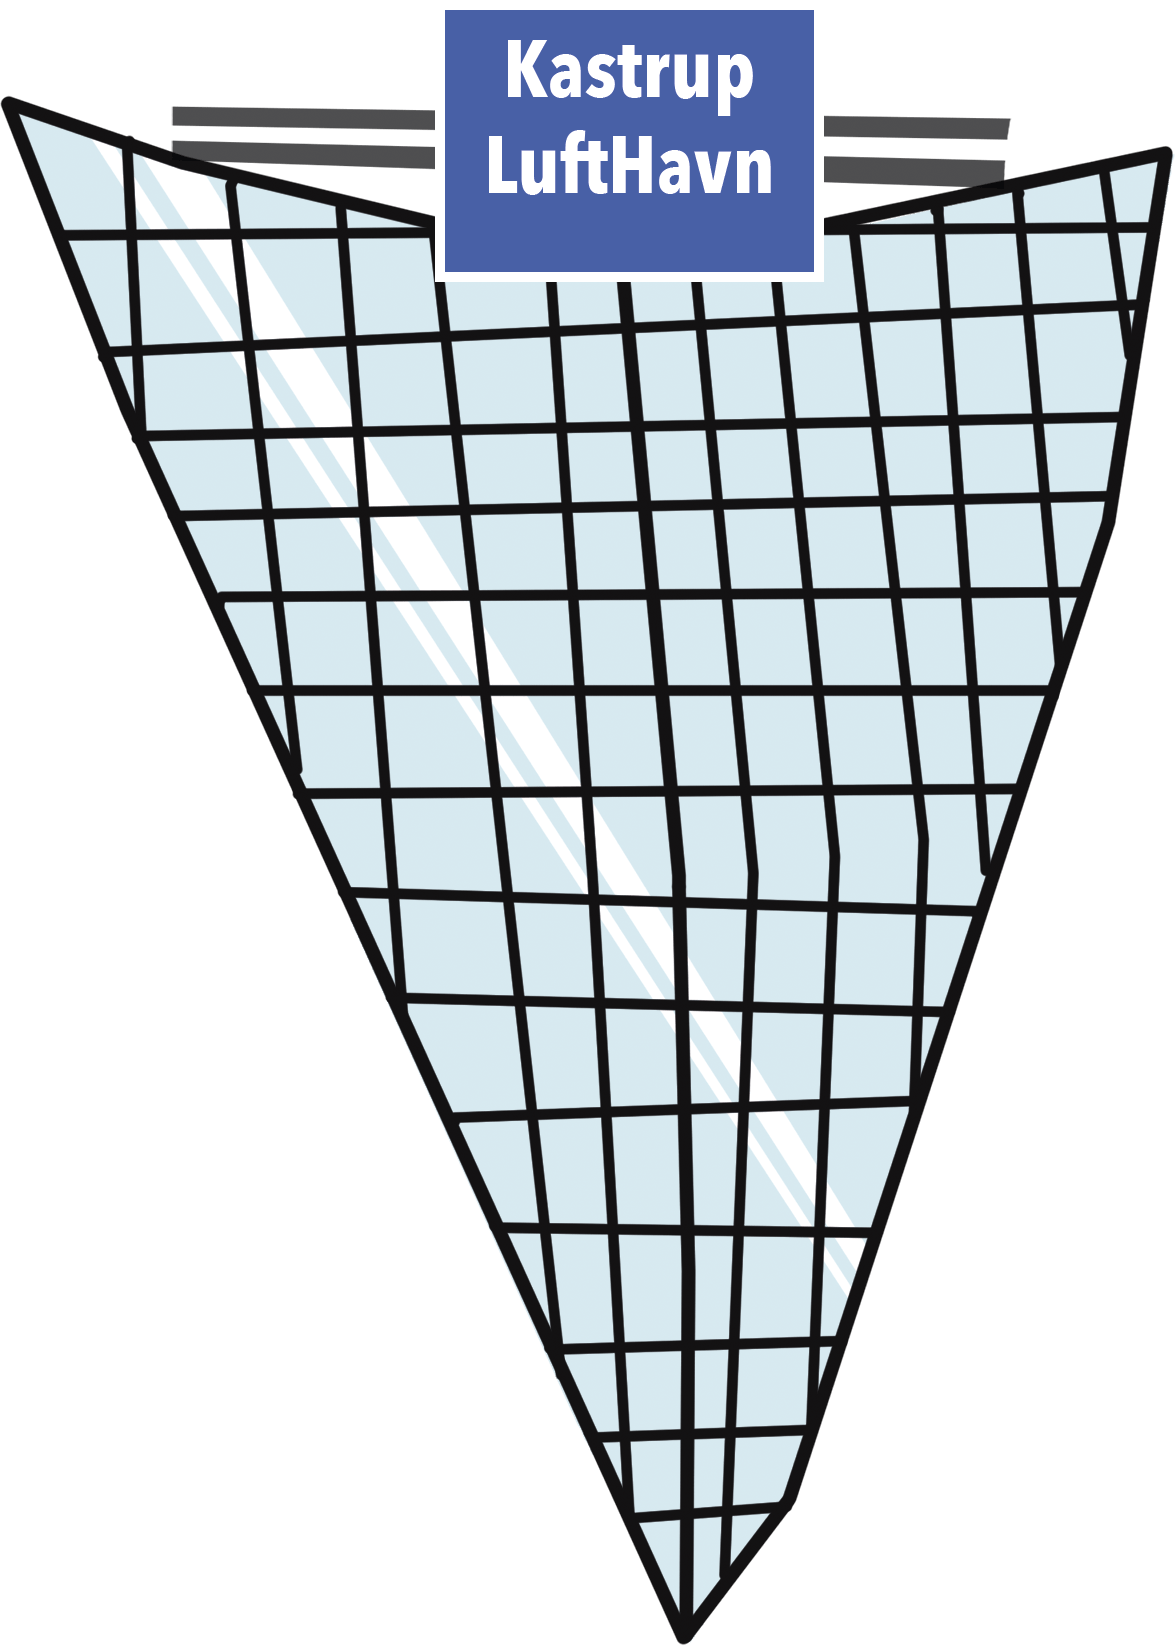
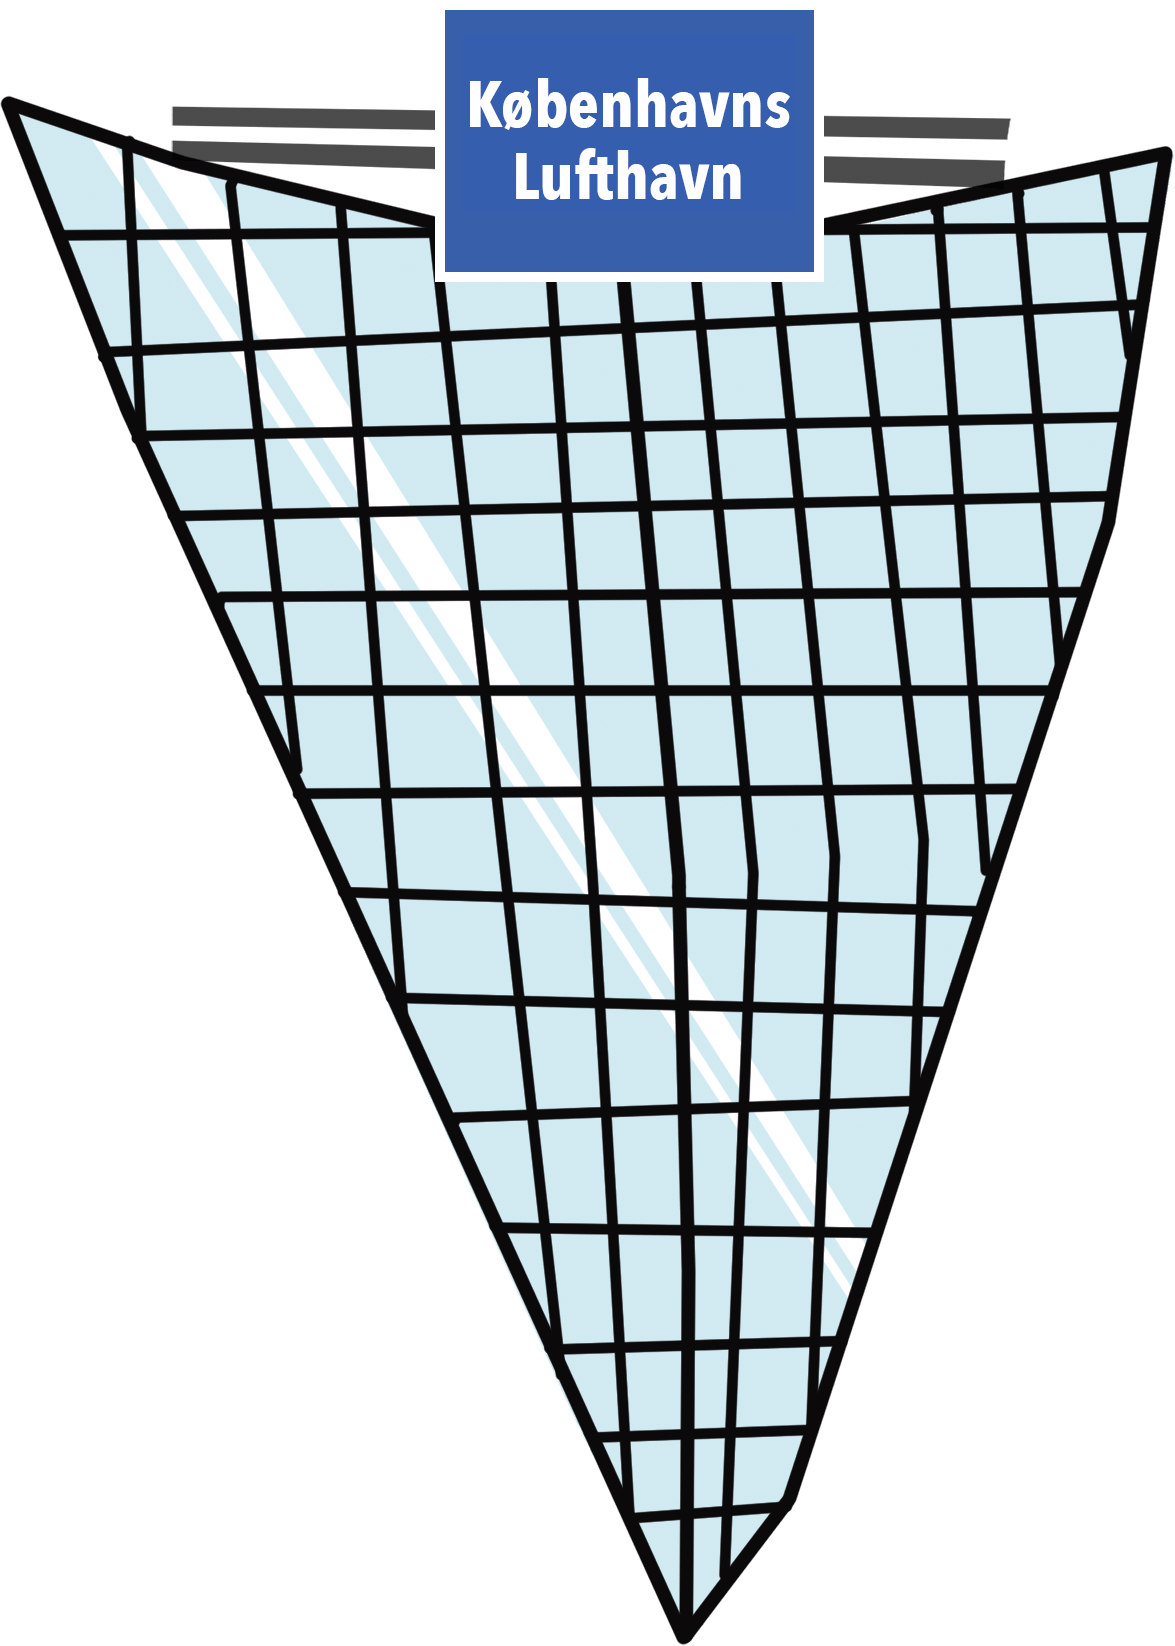
new

Changed region(s): [[0.3983, 0.0, 0.674, 0.1239]]

diff --git a/airpark/index.html b/airpark/index.html
@@ -119,13 +119,15 @@
 
         <div class="results-text">
           <h1>Resultat</h1>
-          <p>Nedenfor kan du se resultatet og dit foretrukne transportmiddel.</p>
+          <p>Her kan du se, hvordan de forskellige transportmuligheder klarer sig mod hinanden på netop din rejse.</p>
         </div>
 
         <div id="results-box">
-          <div id="results-box-car">
-            <div class="icon" id="icon-car"></div>
-            <div class="results-box-stats" id="stats-car">
+
+
+          <div id="results-box-bike">
+            <div class="icon" id="icon-bike"></div>
+            <div class="results-box-stats" id="stats-bike">
               <span class="progress comfort">
                 <span class="meter">&nbsp;</span>
               </span>
@@ -139,7 +141,7 @@
 
             <div class="progress__text--padding">
               <div class="progress__comfort--text">
-                <p>Comfort score:</p><span>90</span>
+                <p>Comfort score:</p><span>30</span>
               </div>
 
               <div class="progress__price--text">
@@ -187,7 +189,6 @@
                 <p>Forsl&aring;et rute:</p> <a href="#">Klik her</a>
               </div>
             </div>
-
           </div>
 
           <div id="results-box-taxi">
@@ -221,10 +222,11 @@
                 <p>Forsl&aring;et rute:</p> <a href="#">Klik her</a>
               </div>
             </div>
-
           </div>
 
-          <div id="results-box-bike">
+
+
+          <div id="results-box-car">
             <div class="result__description">
               <div class="result__description--time">
                 <span></span>Tid
@@ -236,8 +238,8 @@
                 <span></span>Comfort
               </div>
             </div>
-            <div class="icon" id="icon-bike"></div>
-            <div class="results-box-stats" id="stats-bike">
+            <div class="icon" id="icon-car"></div>
+            <div class="results-box-stats" id="stats-car">
               <span class="progress comfort">
                 <span class="meter">&nbsp;</span>
               </span>
@@ -251,7 +253,7 @@
 
             <div class="progress__text--padding">
               <div class="progress__comfort--text">
-                <p>Comfort score:</p><span>30</span>
+                <p>Comfort score:</p><span>90</span>
               </div>
 
               <div class="progress__price--text">
@@ -266,8 +268,8 @@
                 <p>Forsl&aring;et rute:</p> <a href="#">Klik her</a>
               </div>
             </div>
-
           </div>
+
         </div>
       </div>
     </article>
@@ -288,14 +290,18 @@
           <img src="assets/images/game/sky.png">
         </div>
 
-          <h1>Konklusion</h1>
+          <h1>Din foretrukne rejse</h1>
           <img id="seperator" src="assets/images/web/verticalShape.png" />
 
           <p>
-            Lorem ipsum dolor sit amet, consectetur adipisicing elit. Alias placeat,
-            laboriosam veniam repudiandae architecto est, accusamus recusandae itaque
-            natus deserunt ducimus reprehenderit. Pariatur deleniti, mollitia distinctio
-            esse itaque animi officiis.
+            Samlet set giver bilen dig den største traveljoyment – det allervigtigste, når man rejser!
+            <br /><br />
+            <b>1. Bilen er billigst:</b> Bilen er billigst for din rejse. Kør selv og spar!
+            <br />
+            <b>2. Bilen er hurtigst:</b> Vi håber du har bil. En tur i bilen er nemlig den hurtigste vej til Københavns Lufthavn for dig.
+            <br />
+            <b>3. Bilen er mest komfortabel:</b> Det handler om at nyde hele rejsen. Lige fra turen i lufthavnen til man lander.<br /> Derfor anbefaler vi bilen.
+
           </p>
 
           <div class="clear"></div>
@@ -307,7 +313,11 @@
         <div class="grass--bottom">
           <img src="assets/images/web/grass.svg">
         </div>
-        
+
+        <div class="copyright">
+          © Københavns Lufthavne A/S - Lufthavnsboulevarden 6, 2770 Kastrup - CVR 14 70 72 04
+        </div>
+
       </div>
     </article>
   </section>

diff --git a/airpark/assets/css/styles.css b/airpark/assets/css/styles.css
@@ -2183,12 +2183,15 @@ input {
     height: 70px;
     background: #FCCB00;
     transform: rotate(45deg);
-    z-index: 0; }
+    z-index: 1; }
   #bottom .grass--bottom {
     position: absolute;
     width: 100%;
     bottom: -7px;
     left: 0; }
+  #bottom #conclusion .conclusion__content .sky--top {
+    position: absolute;
+    width: 100%; }
   #bottom #conclusion .conclusion__content .sky-full--right {
     top: 200px;
     opacity: 1;
@@ -2204,6 +2207,7 @@ input {
     padding-top: 100px;
     font-family: 'AvenirBold';
     position: relative;
+    text-transform: uppercase;
     z-index: 2;
     letter-spacing: 2px; }
     @media screen and (min-width: 900px) {
@@ -2217,7 +2221,6 @@ input {
     display: block;
     padding: 20px;
     font-size: 1.2em;
-    text-align: center;
     position: relative;
     z-index: 2;
     color: #fff; }
@@ -2240,8 +2243,18 @@ input {
       cursor: pointer; }
   #bottom #conclusion .conclusion__content #seperator {
     display: block;
+    position: relative;
     margin: 0 auto;
-    padding: 20px 0; }
+    padding: 20px 0;
+    z-index: 2; }
+  #bottom #conclusion .conclusion__content .copyright {
+    position: absolute;
+    color: #fff;
+    width: 100%;
+    text-align: center;
+    bottom: 10px;
+    font-size: .9em;
+    font-family: 'AvenirMedium'; }
 
 @media only screen and (min-width: 968px) {
   .result__description {
@@ -2271,16 +2284,16 @@ input {
     transform: rotate(360deg); } }
 
 .spinner {
-  min-width: 24px;
-  min-height: 24px; }
+  min-width: 40px;
+  min-height: 40px; }
 
 .spinner:before {
   content: 'Loading…';
   position: absolute;
   top: 50%;
   left: 50%;
-  width: 24px;
-  height: 24px;
+  width: 40px;
+  height: 40px;
   margin-top: -10px;
   margin-left: -10px; }
 
